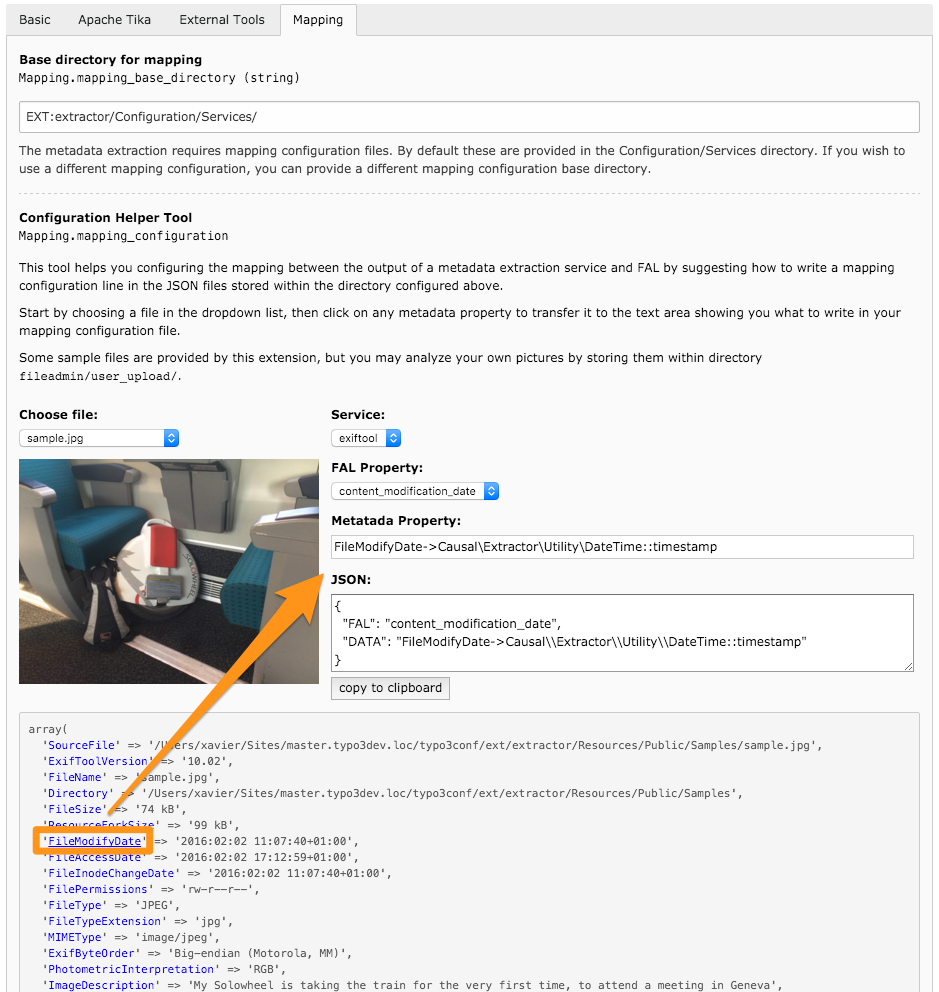
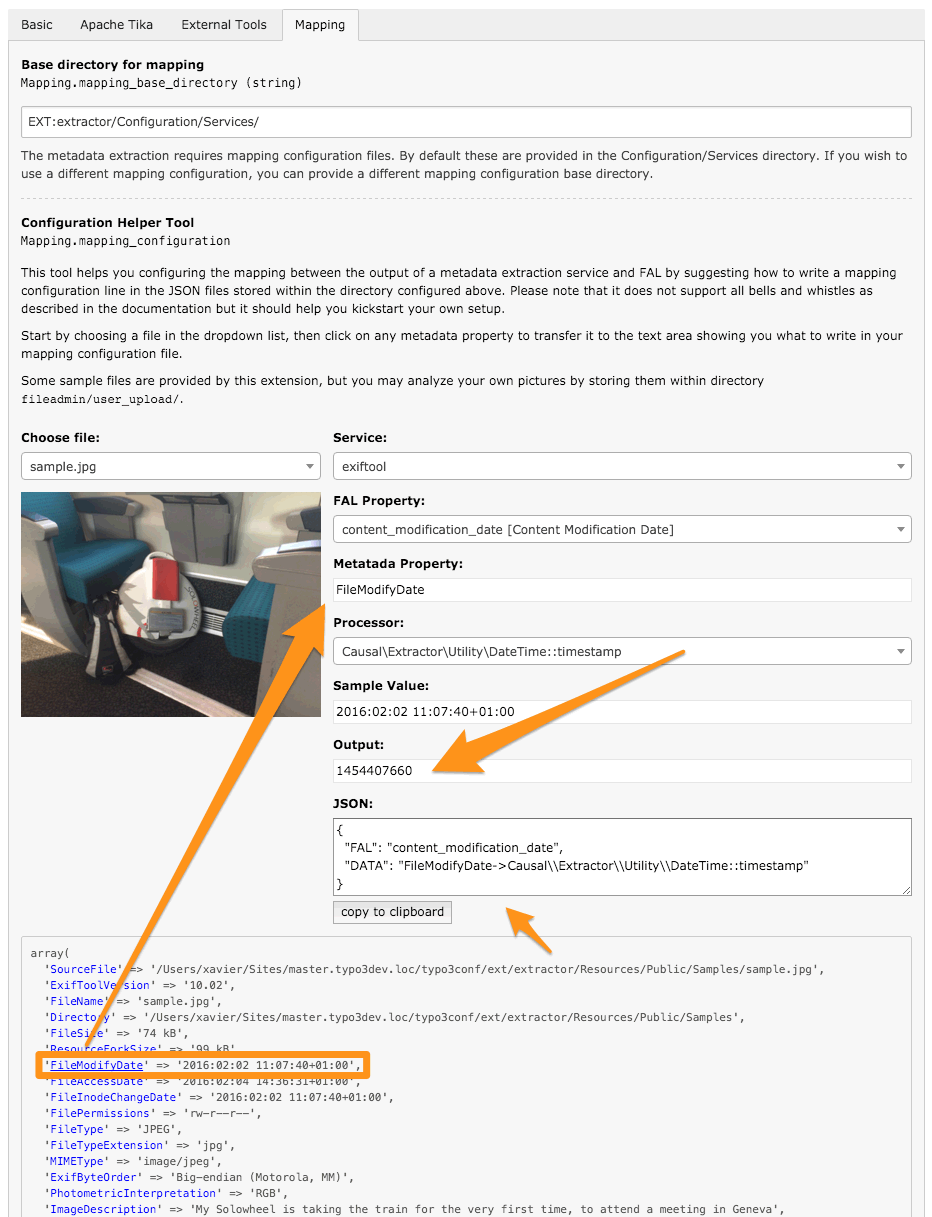
[FEATURE] Preview use of the processor on a sample value
Resolves: #73127
Related: #71470

diff --git a/Resources/Public/JavaScript/extractor.js b/Resources/Public/JavaScript/extractor.js
@@ -15,7 +15,7 @@ Extractor = {
         if (!(file && service)) return;
 
         $.ajax({
-            url: configurationAjaxUrl,
+            url: extractorAnalyzeAction,
             data: {
                 'file': file,
                 'service': service
@@ -24,6 +24,8 @@ Extractor = {
                 $('#tx-extractor-metadata').html(data.html);
                 $('#tx-extractor-preview').html(data.preview);
                 $('#tx-extractor-property').val('');
+                $('#tx-extractor-sample').val('');
+                $('#tx-extractor-output').val('');
                 $('#tx-extractor-processor').val('').trigger('change');
                 $('#tx-extractor-json').val('');
 
@@ -45,11 +47,37 @@ Extractor = {
         jsonField.val("{\n  \"FAL\": \"" + falField.val() + "\",\n  \"DATA\": \"" + property.replace(/\\/g, '\\\\') + "\"\n}");
     },
 
+    processSample: function () {
+        var sample = $('#tx-extractor-sample').val();
+        var processor = $('#tx-extractor-processor').val();
+        var outputField = $('#tx-extractor-output');
+
+        if (!(sample && processor)) {
+            outputField.val(sample);
+        } else {
+            $.ajax({
+                url: extractorProcessAction,
+                data: {
+                    'sample': sample,
+                    'processor': processor
+                },
+                success: function (data) {
+                    if (data.success) {
+                        outputField.val(data.text);
+                    }
+                }
+            });
+        }
+    },
+
     initializePropertyActions: function () {
         $('.tx-extractor-property').click(function () {
             var property = $(this).data('property');
             var processor = $(this).data('processor');
+            var sample = $(this).data('sample');
+
             $('#tx-extractor-property').val(property);
+            $('#tx-extractor-sample').val($.isArray(sample) ? JSON.stringify(sample) : sample);
             $('#tx-extractor-processor').val(processor).trigger('change');
 
             // Prevent save action from configuration form

diff --git a/Resources/Public/JavaScript/configuration.js b/Resources/Public/JavaScript/configuration.js
@@ -7,8 +7,10 @@ define(['jquery', "TYPO3/CMS/Extractor/select2"], function($) {
         $('#tx-extractor-file').change(Extractor.extractMetadata);
         $('#tx-extractor-service').change(Extractor.extractMetadata);
         $('#tx-extractor-fal').change(Extractor.updateJson);
-        $('#tx-extractor-property').change(Extractor.updateJson);
-        $('#tx-extractor-processor').change(Extractor.updateJson);
+        $('#tx-extractor-processor').change(function() {
+            Extractor.updateJson();
+            Extractor.processSample();
+        });
 
         Extractor.initializePropertyActions();
     });

diff --git a/Resources/Public/JavaScript/configuration.v62.js b/Resources/Public/JavaScript/configuration.v62.js
@@ -8,8 +8,10 @@
         $('#tx-extractor-file').change(Extractor.extractMetadata);
         $('#tx-extractor-service').change(Extractor.extractMetadata);
         $('#tx-extractor-fal').change(Extractor.updateJson);
-        $('#tx-extractor-property').change(Extractor.updateJson);
-        $('#tx-extractor-processor').change(Extractor.updateJson);
+        $('#tx-extractor-processor').change(function() {
+            Extractor.updateJson();
+            Extractor.processSample();
+        });
 
         Extractor.initializePropertyActions();
     });

diff --git a/Resources/Public/Css/configuration.css b/Resources/Public/Css/configuration.css
@@ -26,11 +26,13 @@
     color: blue;
 }
 
-#tx-extractor-preview {
-    margin-top: 1em;
+.tx-extractor input[type="text"], .tx-extractor textarea {
+    width: 100% !important;
+    box-sizing: border-box;
+    -moz-box-sizing: border-box;
+    -webkit-box-sizing: border-box;
 }
 
-#tx-extractor-property,
-#tx-extractor-json {
-    width: 99% !important;
+#tx-extractor-preview {
+    margin-top: 1em;
 }

diff --git a/Classes/Em/AjaxController.php b/Classes/Em/AjaxController.php
@@ -34,7 +34,7 @@ class AjaxController
      * @param \TYPO3\CMS\Core\Http\AjaxRequestHandler $ajaxObj Object of type AjaxRequestHandler
      * @return void
      */
-    public function renderAjax(array $params = [], \TYPO3\CMS\Core\Http\AjaxRequestHandler &$ajaxObj = NULL) {
+    public function analyze(array $params = [], \TYPO3\CMS\Core\Http\AjaxRequestHandler &$ajaxObj = null) {
         $ajaxObj->setContentFormat('json');
         $success = false;
         $html = '';
@@ -92,6 +92,63 @@ class AjaxController
             'success' => $success,
             'preview' => $preview,
             'html' => $html,
+        ]);
+    }
+
+    /**
+     * Processes a sample value.
+     *
+     * @param array $params
+     * @param \TYPO3\CMS\Core\Http\AjaxRequestHandler|null $ajaxObj
+     * @return string
+     */
+    public function process(array $params = [], \TYPO3\CMS\Core\Http\AjaxRequestHandler &$ajaxObj = null) {
+        $ajaxObj->setContentFormat('json');
+        $text = '';
+
+        if ($GLOBALS['BE_USER']->isAdmin()) {
+            if (version_compare(TYPO3_version, '7.0', '>=')) {
+                /** @var \TYPO3\CMS\Core\Http\ServerRequest $request */
+                $request = $params['request'];
+                $queryParameters = $request->getQueryParams();
+                $sample = $queryParameters['sample'];
+                $processor = $queryParameters['processor'];
+            } else {
+                $sample = GeneralUtility::_GET('sample');
+                $processor = GeneralUtility::_GET('processor');
+            }
+
+            if (preg_match('/^([^(]+)(\((.*)\))?$/', $processor, $matches)) {
+                $processor = $matches[1];
+                if (preg_match('/[[].*[]]/', $sample)) {
+                    $value = json_decode($sample, true);
+                    if ($value === null) {
+                        // Probably not a JSON string after all
+                        $value = $sample;
+                    }
+                    $sample = $value;
+                }
+                $parameters = array($sample);
+                // Support for $matches[3] is currently *very* basic!
+                // @see \Causal\Extractor\Service\Extraction\AbstractExtractionService::remapServiceOutput
+                if ($matches[3]) {
+                    if ($matches[3]{0} === '\'') {
+                        $parameters[] = substr($matches[3], 1, -1);
+                    } else {
+                        $parameters[] = $matches[3];
+                    }
+                }
+                try {
+                    $text = call_user_func_array($processor, $parameters);
+                } catch (\Exception $e) {
+                    $text = sprintf('Exception #%s: %s', $e->getCode(), $e->getMessage());
+                }
+            }
+        }
+
+        $ajaxObj->setContent([
+            'success' => true,
+            'text' => $text,
         ]);
     }
 
@@ -179,10 +236,12 @@ class AjaxController
             $keyName = ($parent ? $parent . '|' : '') . $key;
             $processor = $this->suggestProcessor($value, $key);
             $propertyPath = $keyName . ($processor ? '->' . $processor : '');
+            $sample = is_array($value) ? json_encode(array_values($value)) : htmlspecialchars($value);
 
             $property = '\'<a class="tx-extractor-property" href="#"' .
                 ' data-property="' . htmlspecialchars($keyName) . '"' .
-                ' data-processor="' . htmlspecialchars($processor) . '">' . htmlspecialchars($key) . '</a>\'';
+                ' data-processor="' . htmlspecialchars($processor) . '"' .
+                ' data-sample=\'' . $sample . '\'>' . htmlspecialchars($key) . '</a>\'';
 
             if (is_array($value)) {
                 $value = $this->htmlizeMetadata($value, $indent + 1, $keyName);
@@ -217,6 +276,9 @@ class AjaxController
                 break;
             case stripos($property, 'gps') !== false:
                 $postProcessor = 'Causal\\Extractor\\Utility\\Gps::toDecimal';
+                break;
+            case is_array($value):
+                $postProcessor = 'Causal\\Extractor\\Utility\\Array_::concatenate(\', \')';
                 break;
         }
 

diff --git a/Classes/Em/MappingController.php b/Classes/Em/MappingController.php
@@ -60,7 +60,8 @@ class MappingController extends AbstractConfigurationField
     {
         $resourcesPath = ExtensionManagementUtility::extRelPath($this->extensionKey) . 'Resources/Public/';
 
-        $inlineJs = 'var configurationAjaxUrl = \'' . BackendUtility::getAjaxUrl($this->extensionKey . '::analyze') . '\';';
+        $inlineJs = 'var extractorAnalyzeAction = \'' . BackendUtility::getAjaxUrl($this->extensionKey . '::analyze') . '\';';
+        $inlineJs .= 'var extractorProcessAction = \'' . BackendUtility::getAjaxUrl($this->extensionKey . '::process') . '\';';
 
         $pageRenderer = $this->getPageRenderer();
         if (version_compare(TYPO3_version, '6.2.99', '<=')) {
@@ -80,14 +81,26 @@ class MappingController extends AbstractConfigurationField
         $html[] = $this->smartFormat($this->translate('settings.mapping_configuration.description'));
         $html[] = '<div class="tx-extractor">';
         $html[] = '<table><tr><td>';
+        // Choose file
         $html[] = $this->getFileSelector();
         $html[] = '<div id="tx-extractor-preview"></div>';
         $html[] = '</td><td>';
+        // Service
         $html[] = $this->getServiceSelector();
+        //  FAL Property
         $html[] = $this->getFalPropertySelector();
+        // Metadata Property
         $html[] = '<label for="tx-extractor-property">' . $this->translate('settings.mapping_configuration.property', true) . '</label>';
-        $html[] = '<input type="text" id="tx-extractor-property" />';
+        $html[] = '<input type="text" id="tx-extractor-property" readonly="readonly" />';
+        // Processor
         $html[] = $this->getProcessorSelector();
+        // Sample Value
+        $html[] = '<label for="tx-extractor-sample">' . $this->translate('settings.mapping_configuration.sample', true) . '</label>';
+        $html[] = '<input type="text" id="tx-extractor-sample" readonly="readonly" />';
+        // Output
+        $html[] = '<label for="tx-extractor-output">' . $this->translate('settings.mapping_configuration.output', true) . '</label>';
+        $html[] = '<input type="text" id="tx-extractor-output" readonly="readonly" />';
+        // JSON
         $html[] = '<label for="tx-extractor-json">' . $this->translate('settings.mapping_configuration.json', true) . '</label>';
         $html[] = '<textarea id="tx-extractor-json" rows="4"></textarea>';
         $html[] = '<button id="tx-extractor-copy">' . $this->translate('settings.mapping_configuration.json.copy', true) . '</button>';

diff --git a/ext_localconf.php b/ext_localconf.php
@@ -32,9 +32,15 @@ $boot = function ($_EXTKEY) {
         Register post-processors (only useful for mapping helper tool in EM)
     =========================================================================== */
     $GLOBALS['TYPO3_CONF_VARS']['EXT'][$_EXTKEY]['processors'] = [
-        'Causal\\Extractor\\Utility\\Array_::concatenate',
+        'Causal\\Extractor\\Utility\\Array_::concatenate(\', \')',
         'Causal\\Extractor\\Utility\\ColorSpace::normalize',
         'Causal\\Extractor\\Utility\\DateTime::timestamp',
+        'Causal\\Extractor\\Utility\\Dimension::extractHeight',
+        'Causal\\Extractor\\Utility\\Dimension::extractWidth',
+        'Causal\\Extractor\\Utility\\Dimension::extractUnit',
+        'Causal\\Extractor\\Utility\\Duration::normalize',
+        'Causal\\Extractor\\Utility\\Gps::toDecimal',
+        'Causal\\Extractor\\Utility\\Number::castInteger',
         'Causal\\Extractor\\Utility\\Number::extractFloat',
         'Causal\\Extractor\\Utility\\Number::extractIntegerAtEnd',
     ];

diff --git a/Classes/Utility/Number.php b/Classes/Utility/Number.php
@@ -41,9 +41,13 @@ class Number
      *
      * @param string $str
      * @return string
+     * @throws \InvalidArgumentException
      */
     public static function extractIntegerAtEnd($str)
     {
+        if (is_array($str)) {
+            throw new \InvalidArgumentException('String parameter expected, array given', 1454591285);
+        }
         if (preg_match('/(\d+)$/', $str, $matches)) {
             return (int)$matches[1];
         }
@@ -55,9 +59,13 @@ class Number
      *
      * @param string $str
      * @return float
+     * @throws \InvalidArgumentException
      */
     public static function extractFloat($str)
     {
+        if (is_array($str)) {
+            throw new \InvalidArgumentException('String parameter expected, array given', 1454591360);
+        }
         if (preg_match('#^(\d+)/(\d+)$#', $str, $matches)) {
             $value = (int)$matches[1] / (float)$matches[2];
         } elseif (preg_match('/35 mm equivalent: (\d+\.\d+) mm/', $str, $matches)) {

diff --git a/Classes/Utility/DateTime.php b/Classes/Utility/DateTime.php
@@ -28,9 +28,13 @@ class DateTime
      *
      * @param string $str
      * @return integer|null
+     * @throws \InvalidArgumentException
      */
     public static function timestamp($str)
     {
+        if (is_array($str)) {
+            throw new \InvalidArgumentException('String parameter expected, array given', 1454591417);
+        }
         if (preg_match('/^\d{4}:\d{2}:\d{2} \d{2}:\d{2}:\d{2}$/', $str)) {
             // PHP built-in format when reading EXIF
             list($date, $time) = explode(' ', $str, 2);

diff --git a/Classes/Utility/ColorSpace.php b/Classes/Utility/ColorSpace.php
@@ -30,9 +30,13 @@ class ColorSpace
      *
      * @param string $str
      * @return string
+     * @throws \InvalidArgumentException
      */
     public static function normalize($str)
     {
+        if (is_array($str)) {
+            throw new \InvalidArgumentException('String parameter expected, array given', 1454591450);
+        }
         if (MathUtility::canBeInterpretedAsInteger($str)) {
             // See http://www.sno.phy.queensu.ca/~phil/exiftool/TagNames/EXIF.html
             switch ((int)$str) {

diff --git a/ext_tables.php b/ext_tables.php
@@ -11,6 +11,10 @@ if (TYPO3_MODE === 'BE') {
 
     \TYPO3\CMS\Core\Utility\ExtensionManagementUtility::registerAjaxHandler(
         $_EXTKEY . '::analyze',
-        \Causal\Extractor\Em\AjaxController::class . '->renderAjax'
+        \Causal\Extractor\Em\AjaxController::class . '->analyze'
+    );
+    \TYPO3\CMS\Core\Utility\ExtensionManagementUtility::registerAjaxHandler(
+        $_EXTKEY . '::process',
+        \Causal\Extractor\Em\AjaxController::class . '->process'
     );
 }
